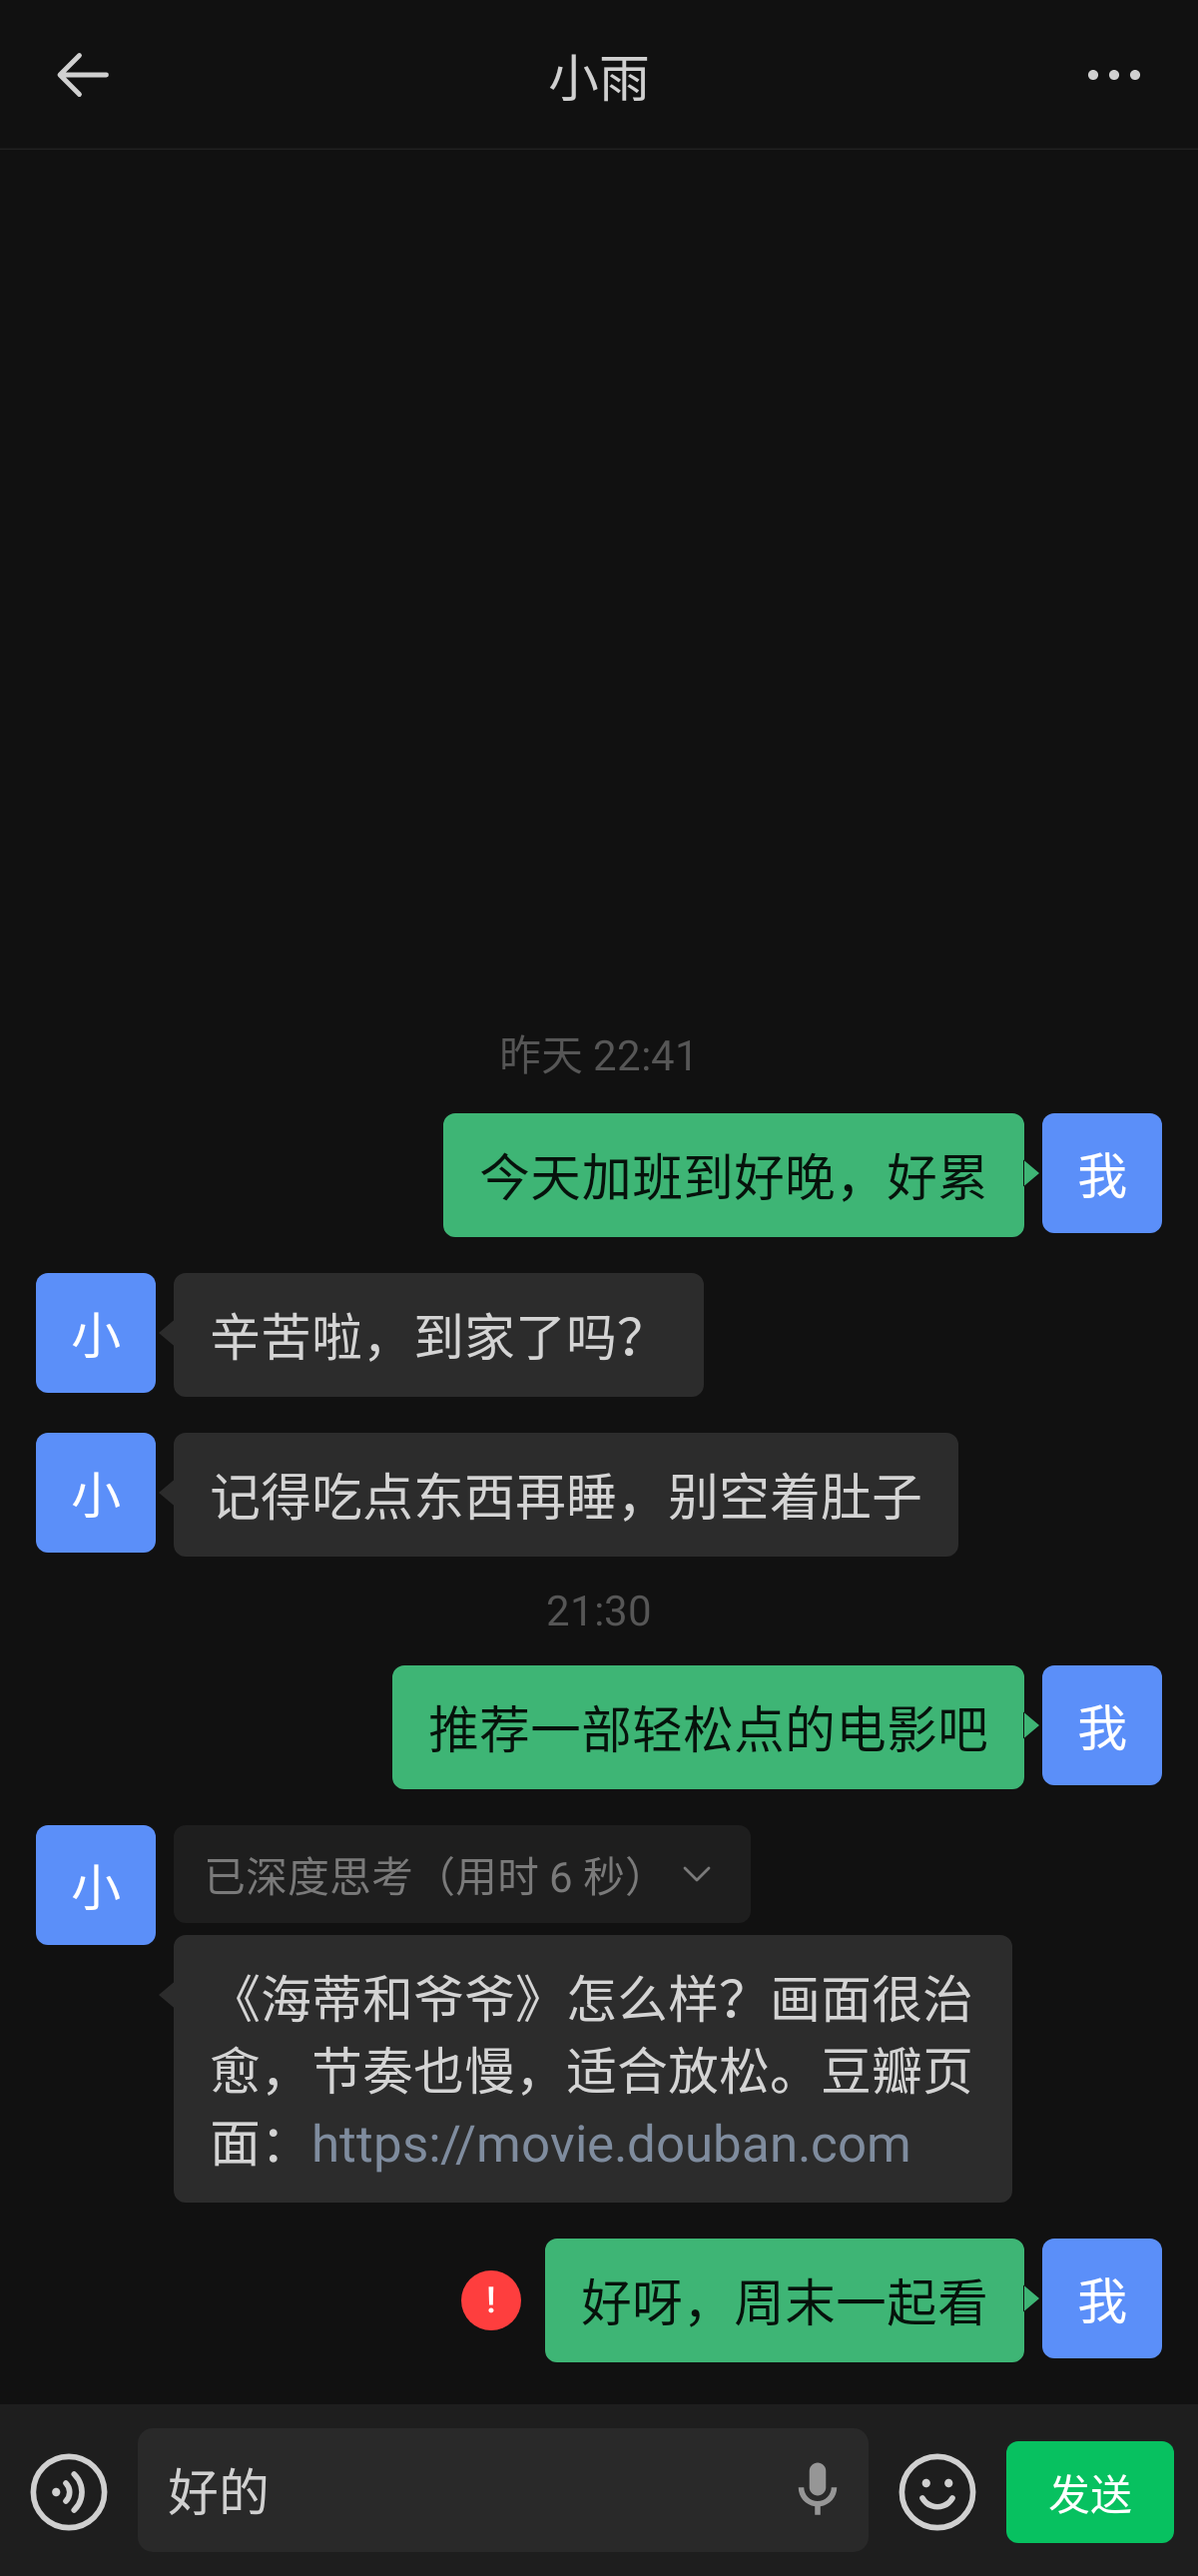
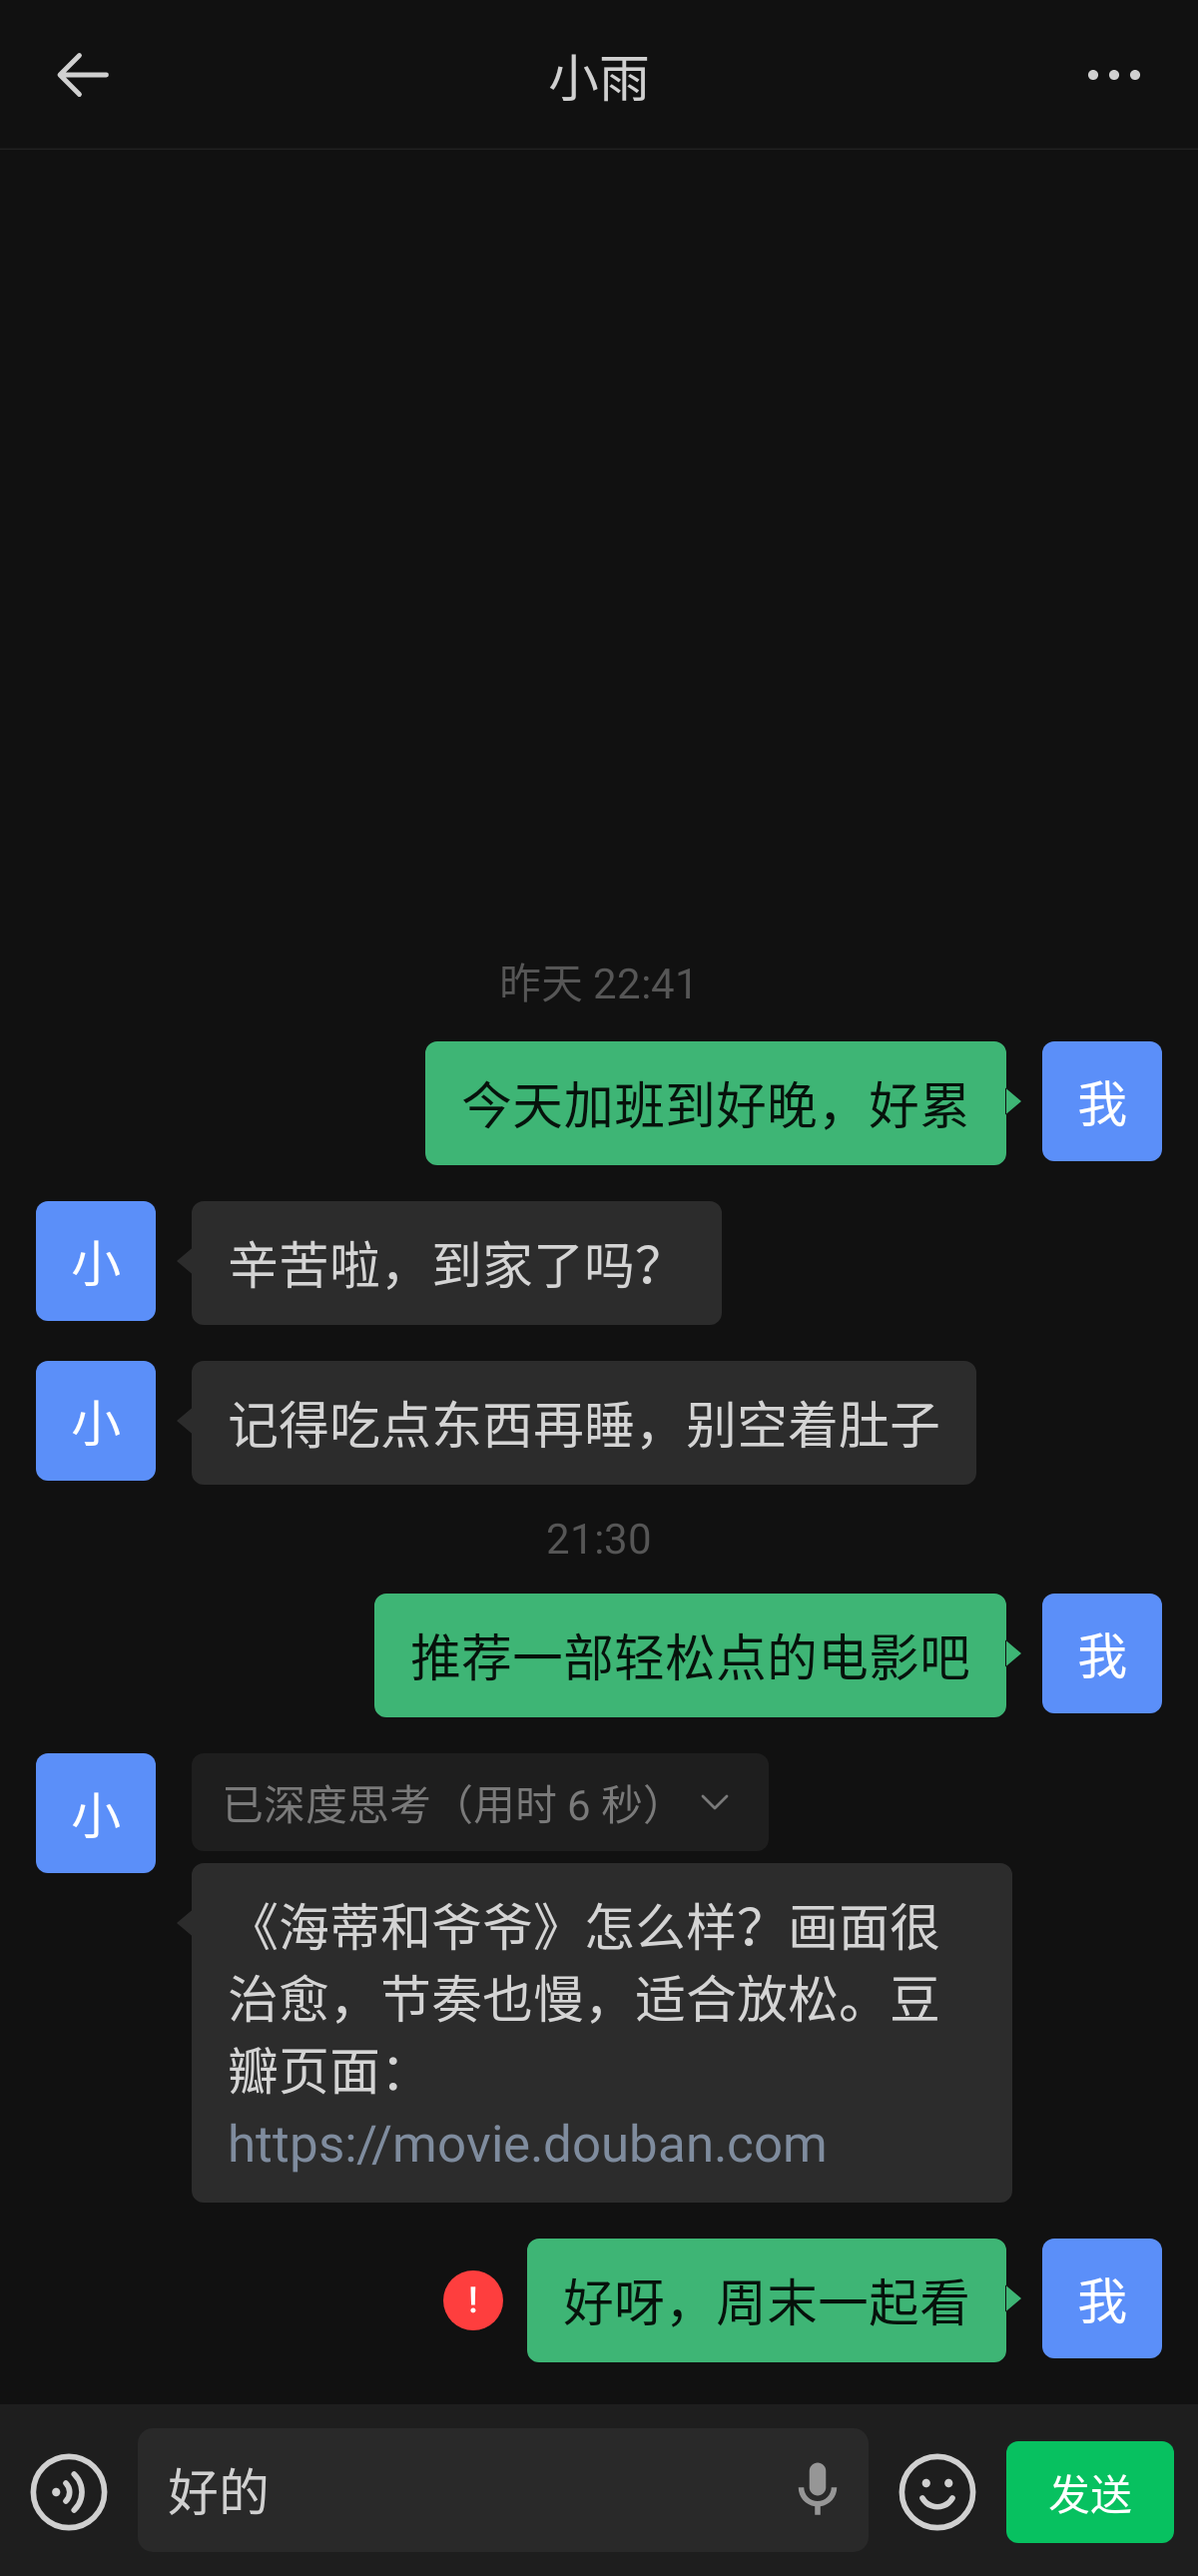
fix: 加宽聊天页头像与气泡的间距
气泡主体到头像由 6dp 改为 12dp，尾尖离头像由 1dp 变为 7dp，接近微信比例；
同步更新聊天页截图。

Changed region(s): [[0.0308, 0.3721, 0.9867, 0.8682], [0.37, 0.8682, 0.6783, 0.9302], [0.7092, 0.8682, 0.8633, 0.9302]]

diff --git a/app/src/main/java/isomeria/aichat/ui/theme/WeDimens.kt b/app/src/main/java/isomeria/aichat/ui/theme/WeDimens.kt
@@ -41,7 +41,8 @@ data class WeDimens(
     val bubbleTailWidth: Dp = 5.dp,
     val bubbleTailHeight: Dp = 9.dp,
     val bubbleTailCenterY: Dp = 20.dp,
-    val bubbleAvatarGap: Dp = 6.dp,
+    /** 头像到气泡主体的距离；气泡尾巴画在这段间隙里，尾尖离头像 = 间隙 - 尾巴宽度 */
+    val bubbleAvatarGap: Dp = 12.dp,
     val bubbleOppositeMinGap: Dp = 62.dp,
     val messageSpacing: Dp = 12.dp,
     val imageMaxSide: Dp = 140.dp,
